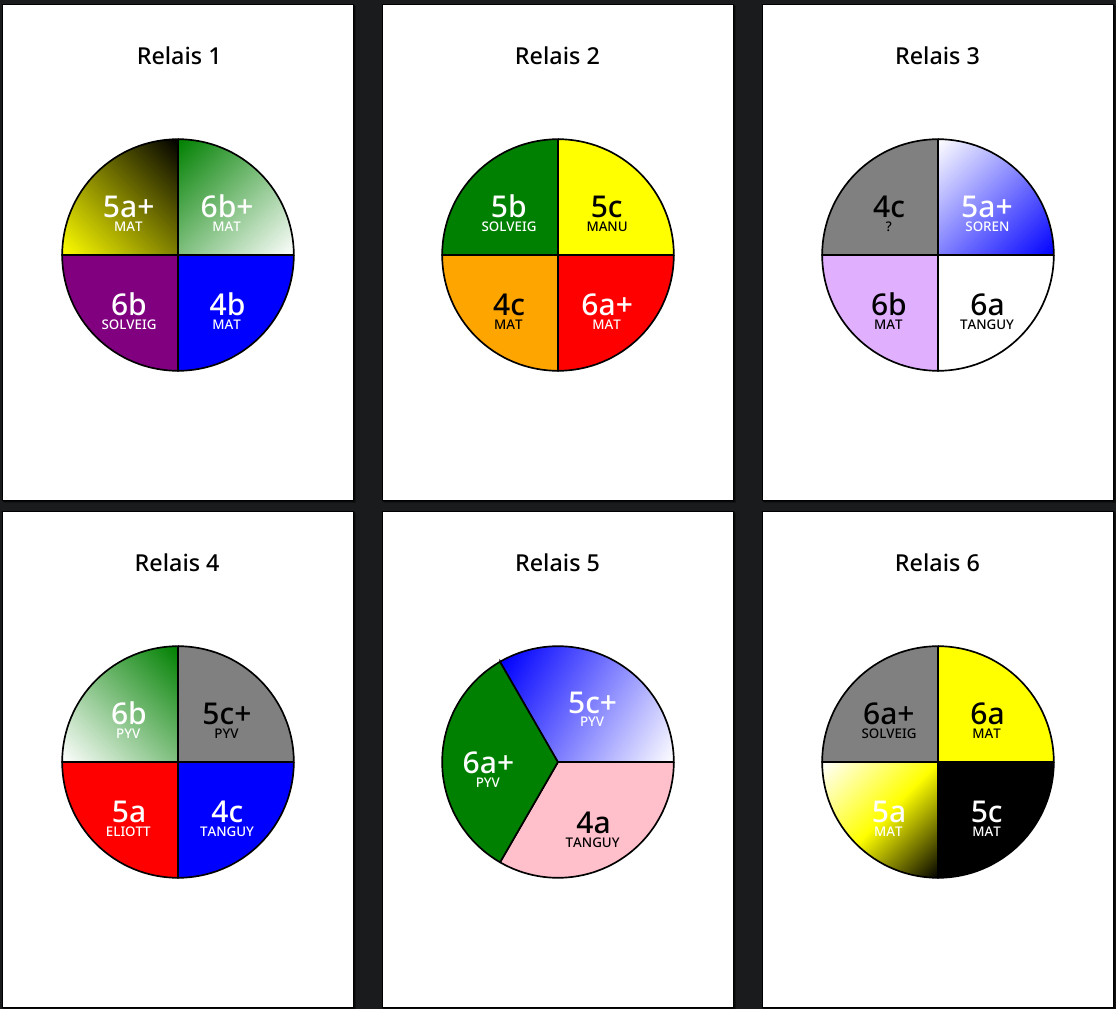
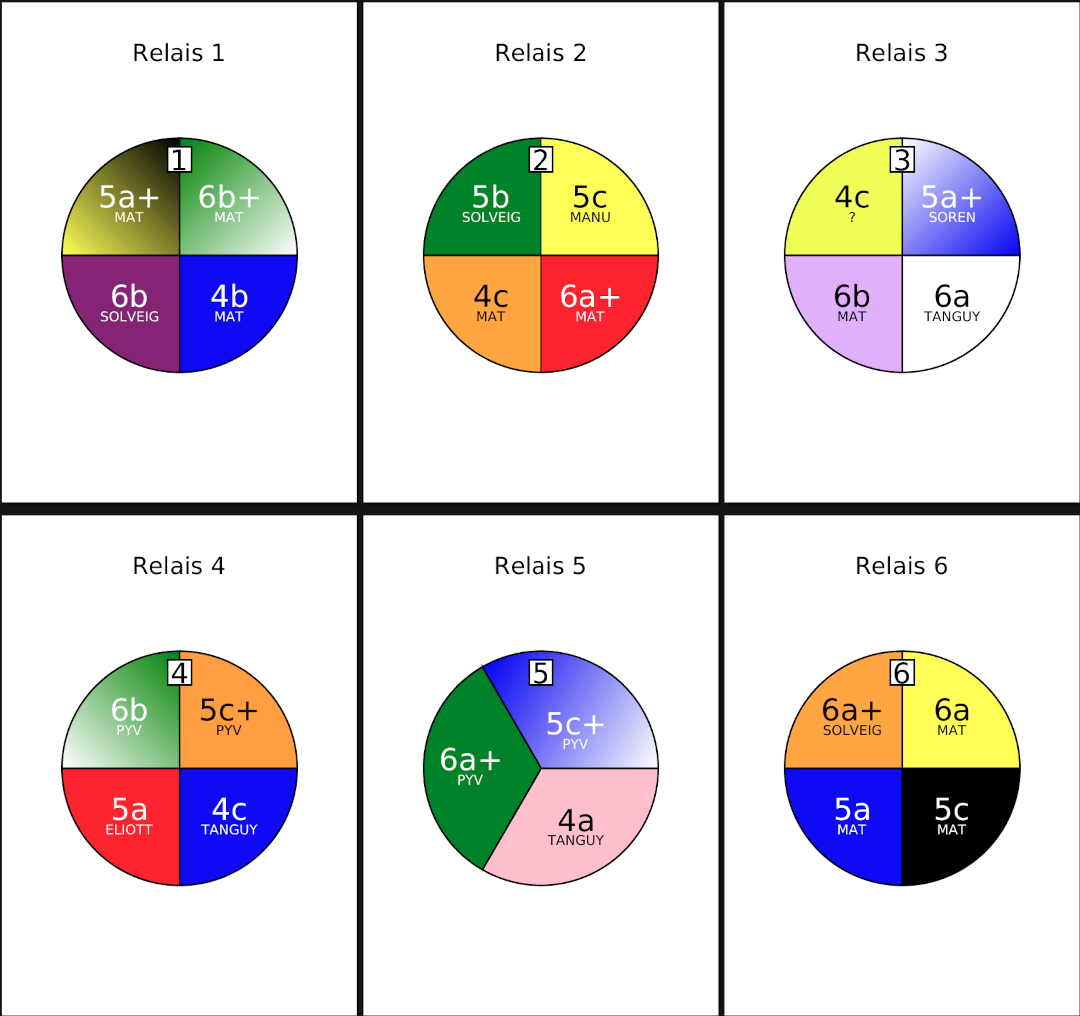
Fix some cases of overlap between relay number and route grade

diff --git a/src/templates/form.html b/src/templates/form.html
@@ -6,11 +6,10 @@
 <p>Le fichier PDF généré comporte une page par relais. Pour les voies marbrées, suivez-bien la nomenclature dans mon exemple (cela génère un dégradé de couleur 🤩) :</p>
 <pre>MARBREE ( COULEUR1 / COULEUR2 / ... )</pre>
 <p><a href="colors">Liste des couleurs reconnues</a></p>
-<p>Les disques sont compatibles avec les <a href="https://www.9cplus.com/accessoires/338-plaque-de-protection-plexiglas.html">plaques de protection plexiglas que vous pouvez trouver chez 9c+</a> ou d'autres revendeurs.</p>
 
 <form action="." method="post">
     <div>
-        <textarea id="textarea" name="message" rows="20" required>
+        <textarea id="textarea" name="message" rows="14" required>
 Relais,Couleur,Cotation,Ouvreur,Commentaire
 1,BLEUE,4b,MAT
 1,VIOLETTE,6b,SOLVEIG
@@ -28,5 +27,6 @@ Relais,Couleur,Cotation,Ouvreur,Commentaire
     <div>
         <button type="submit">Génère le fichier PDF avec les étiquettes</button>
     </div>
+    <p>Pour plus de personnalisation, je vous recommander d'éditer le fichier PDF avec le <a href="https://inkscape.org/">logiciel de dessin vectoriel Inkscape</a>. Les disques sont compatibles avec les plaques de protection plexiglas de la boutique 9c+ (désormais fermée). Il doit être possible d'en commander sur mesure sur un site comme <a href="https://www.plaque-plexiglass.fr">https://www.plaque-plexiglass.fr</a></p>
 </form>
 {% endblock %}

diff --git a/src/templates/base.html b/src/templates/base.html
@@ -79,7 +79,7 @@
     </main>
 
     <footer class="container">
-        <span>(c) 2024 Hervé Le Roy</span>
+        <span>(c) 2024 - 2025 Hervé Le Roy</span>
         <!-- GitHub Link -->
         <div>
             <a href="https://github.com/hleroy/climbing_route_chart" target="_blank">

diff --git a/src/climbing_route_chart/svg_generator.py b/src/climbing_route_chart/svg_generator.py
@@ -108,7 +108,7 @@ def add_pie_chart_to_svg(drawing, group, center_x, center_y, radius, grade_fs, s
         # Add relay number in a rectangle at the top of the disk
         relay_text = str(relay)
         relay_fs = 17
-        rect_width = 14
+        rect_width = 14 + (len(relay_text) - 1) * 10  # Dynamic width based on text length
         rect_height = 15
         rect_x = center_x - rect_width / 2
         rect_y = center_y - radius + 5
@@ -143,6 +143,12 @@ def add_pie_chart_to_svg(drawing, group, center_x, center_y, radius, grade_fs, s
         text_radius_multiplier = 0.6
         text_x = center_x + radius * text_radius_multiplier * math.cos(math.radians(mid_angle))
         text_y = center_y + radius * text_radius_multiplier * math.sin(math.radians(mid_angle)) - 5
+
+        # Adjust text position if it would overlap with relay box at the top (around 270°)
+        # The relay box is positioned at the top of the circle, so slices with mid_angle
+        # between 240° and 300° need their text moved downward to avoid overlap
+        if 240 <= mid_angle <= 300:
+            text_y += 15  # Move text downward to clear the relay box
         drawing.append(
             draw.Text(text=route["Cotation"], font_size=grade_fs, x=text_x, y=text_y, center=0.5, fill=text_color, font_family="DejaVu Sans")
         )
@@ -172,7 +178,7 @@ def add_pie_chart_to_svg(drawing, group, center_x, center_y, radius, grade_fs, s
     # Add relay number in a rectangle at the top of the disk (for multi-route case)
     relay_text = str(relay)
     relay_fs = 17
-    rect_width = 14
+    rect_width = 14 + (len(relay_text) - 1) * 10  # Dynamic width based on text length
     rect_height = 15
     rect_x = center_x - rect_width / 2
     rect_y = center_y - radius + 5

diff --git a/CHANGELOG.md b/CHANGELOG.md
@@ -5,6 +5,10 @@ All notable changes to this project will be documented in this file.
 The format is based on [Keep a Changelog](https://keepachangelog.com/en/1.0.0/),
 and this project adheres to [Semantic Versioning](https://semver.org/spec/v2.0.0.html).
 
+## [1.2.1] - 2025-11-17
+
+- Fixed some cases of overlap between relay number and route grade
+
 ## [1.2.0] - 2025-10-05
 
 - Added relay number display in white rectangle at top of pie charts
